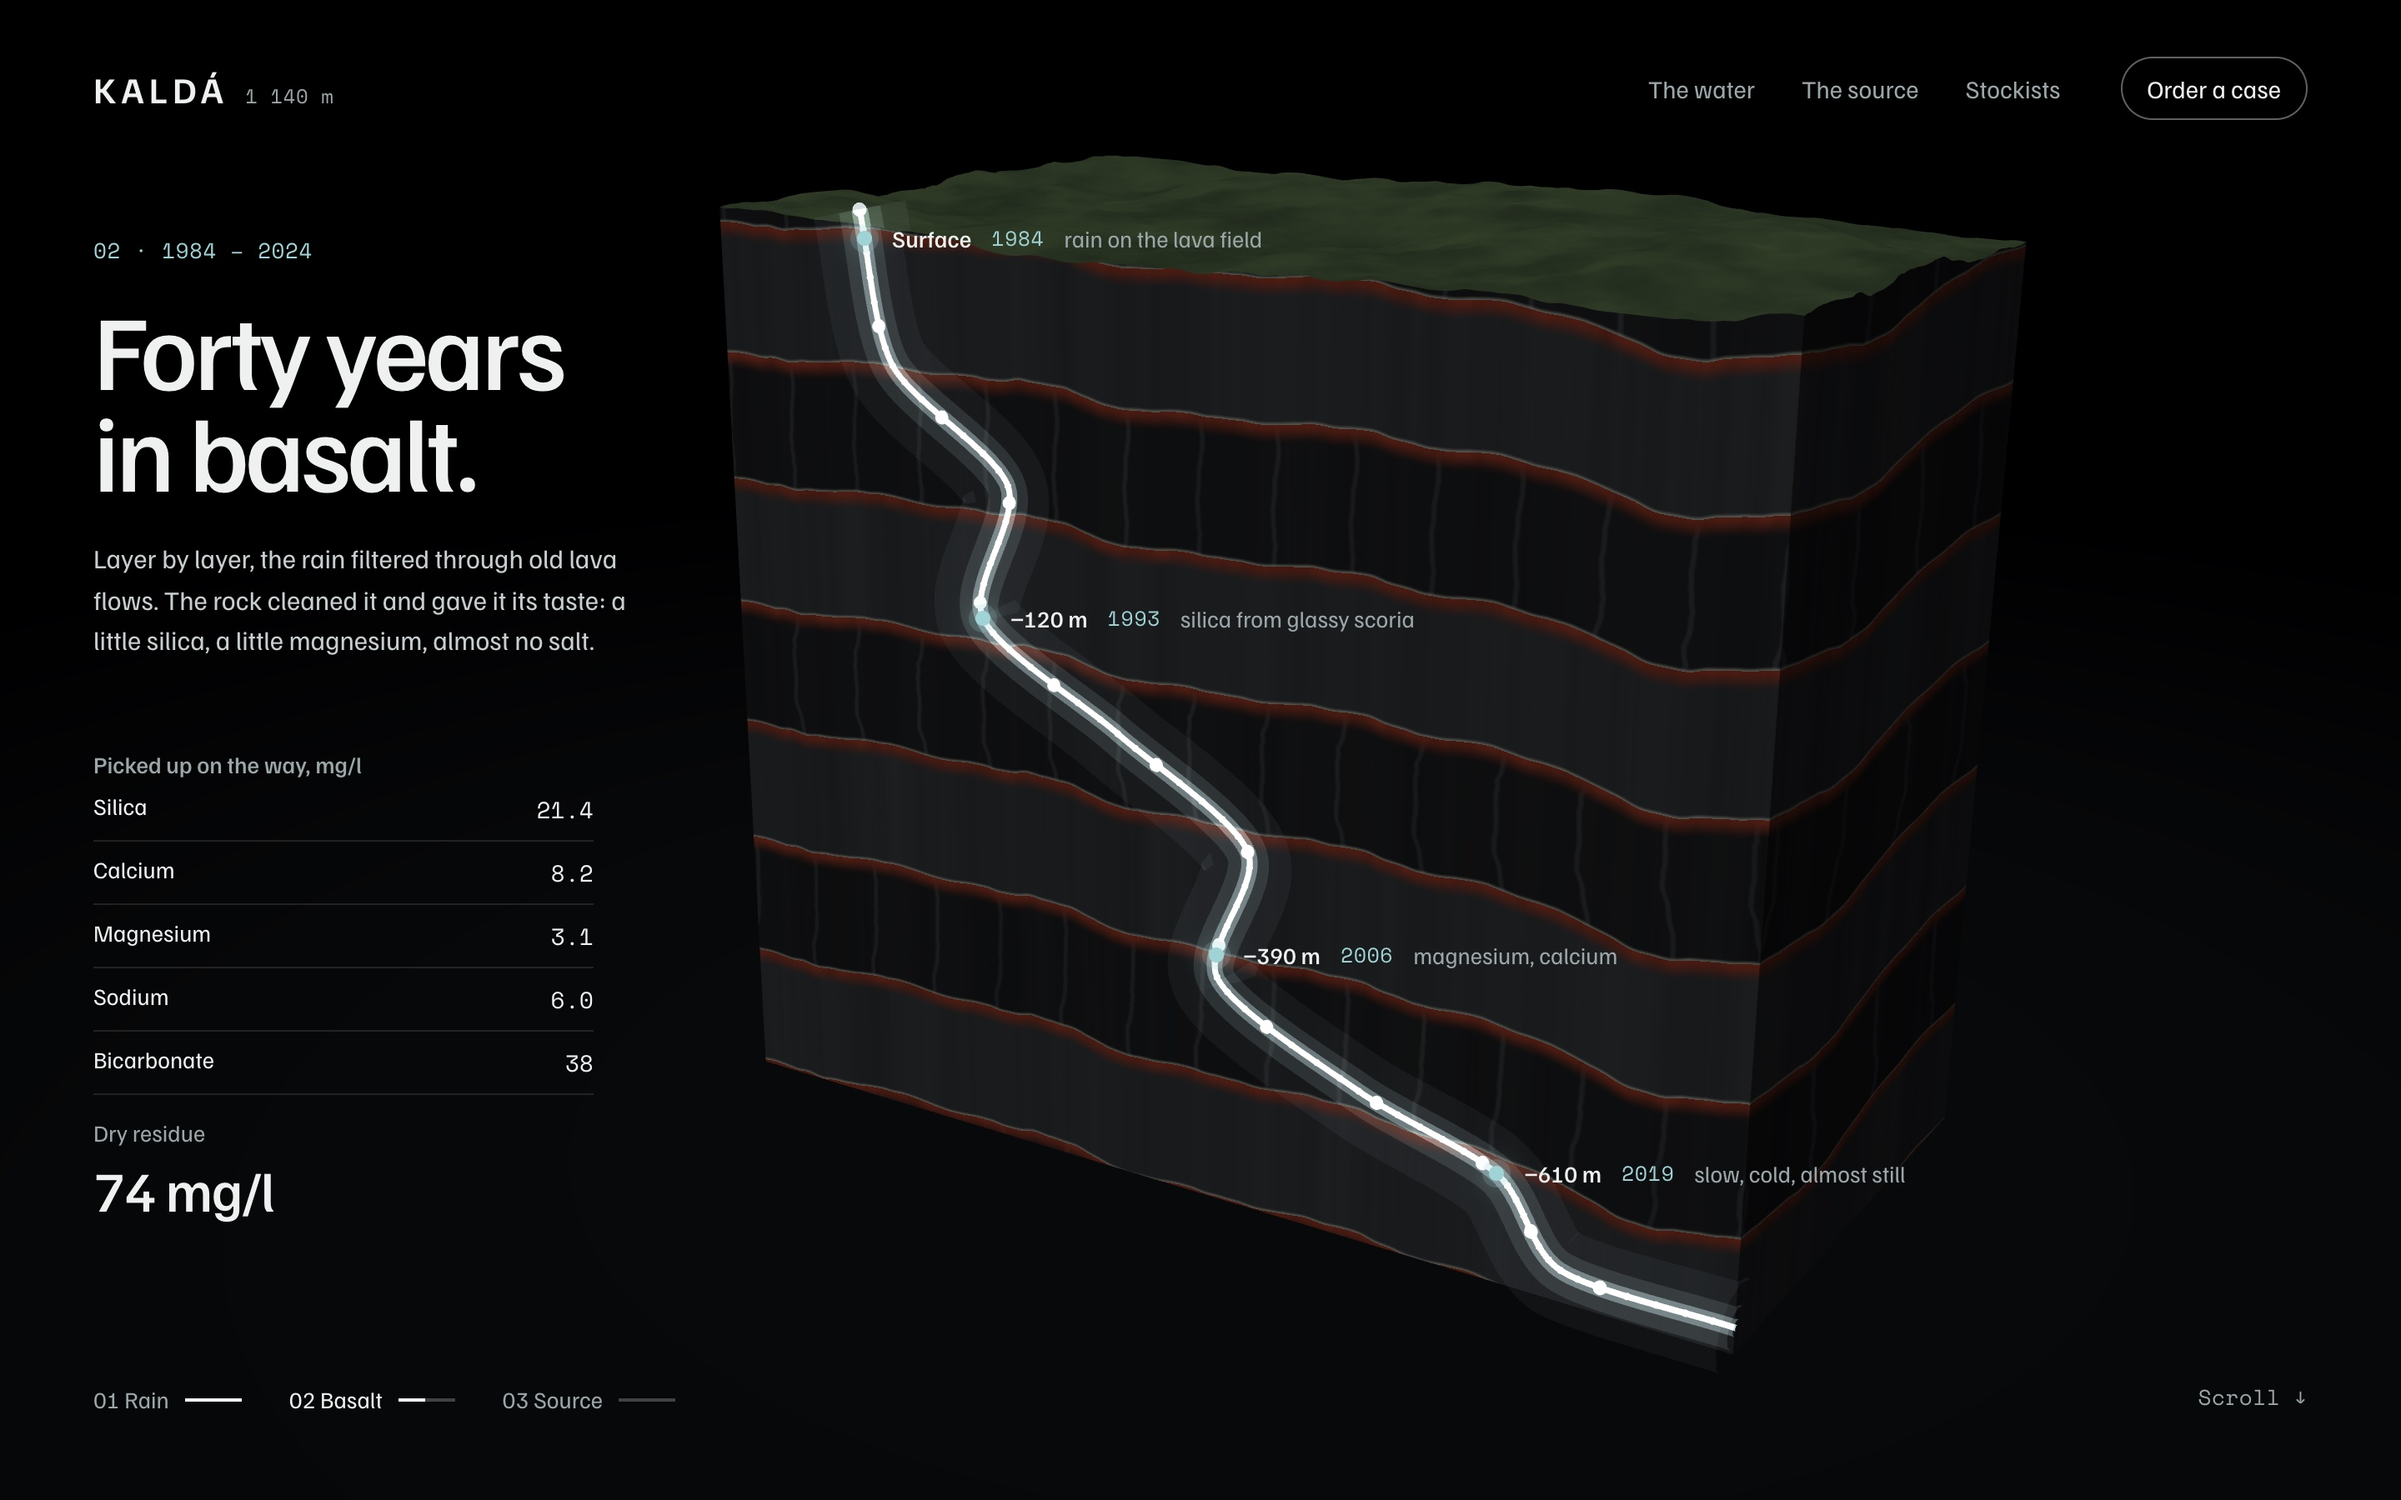
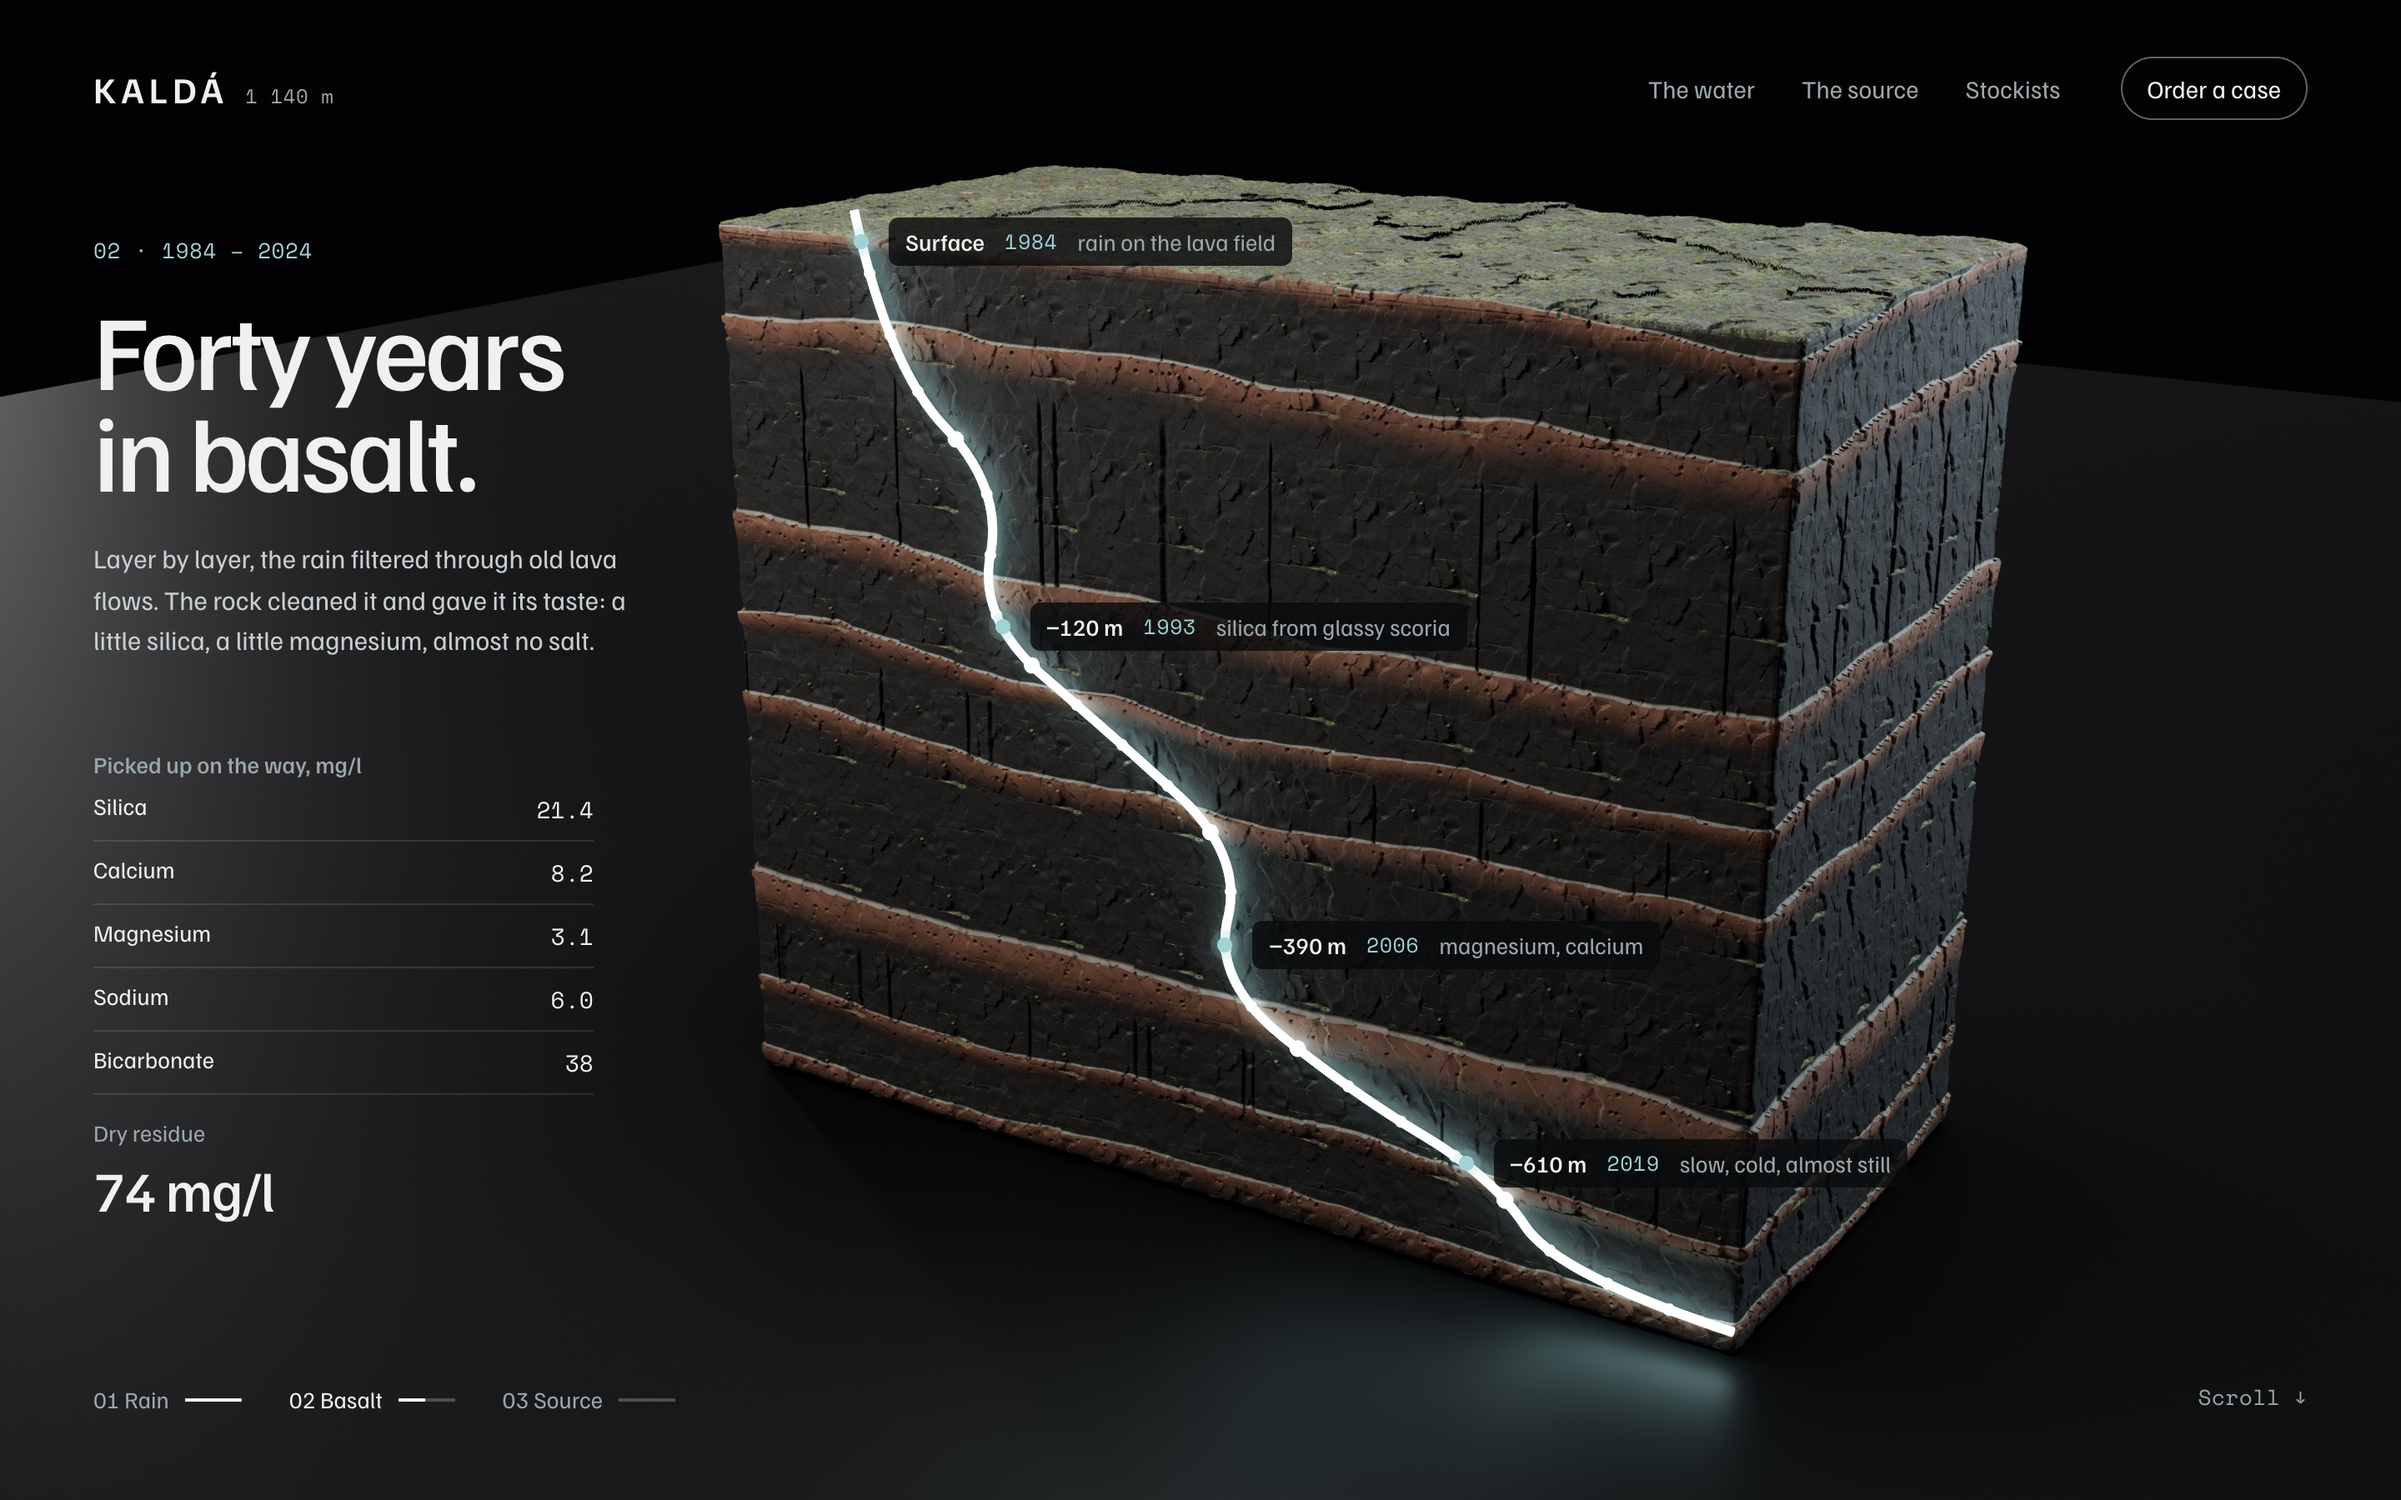
Rebuild Kaldá stills in Blender Cycles
Replace the three.js chapter images with Cycles renders: scanned rock
textures, a geometry-nodes lava field, a layered basalt section and a
remodelled bottle. Update the alt text to match.

diff --git a/components/lab-entries.ts b/components/lab-entries.ts
@@ -17,6 +17,9 @@ import parity from "@/public/images/lab/parity.jpg";
 import parityFooter from "@/public/images/lab/parity-footer.jpg";
 import turndown from "@/public/images/lab/turndown.jpg";
 import turndownFlow from "@/public/images/lab/turndown-flow.jpg";
+import nightswim from "@/public/images/lab/nightswim.jpg";
+import nightswimMap from "@/public/images/lab/nightswim-map.jpg";
+import nightswimBoard from "@/public/images/lab/nightswim-board.jpg";
 
 export type LabImage = {
   src: StaticImageData;
@@ -158,7 +161,7 @@ export const labEntries: LabEntry[] = [
     images: [
       {
         src: kaldaRain,
-        alt: "Kaldá chapter one: rain falling on a black lava field under a storm sky, with the line It fell as rain on black lava.",
+        alt: "Kaldá chapter one: rain falling on a wet black lava field flecked with moss, mountains fading into the storm, with the line It fell as rain on black lava.",
         label: "01 Rain",
       },
       {
@@ -168,8 +171,30 @@ export const labEntries: LabEntry[] = [
       },
       {
         src: kaldaSource,
-        alt: "Kaldá chapter three: a clear glass bottle of water standing on a hexagonal basalt column in caustic light, with the line It comes up at four degrees.",
+        alt: "Kaldá chapter three: a clear glass bottle beaded with condensation, standing on a hexagonal basalt column among other columns in a cold teal haze, with the line It comes up at four degrees.",
         label: "03 Source",
+      },
+    ],
+  },
+  {
+    number: "08",
+    name: "Tanabe Bros.",
+    category: "Snowboard maker, a board for night riding",
+    images: [
+      {
+        src: nightswim,
+        alt: "Tanabe Bros. product page for the Nightswim snowboard: three boards with a lime, white, cobalt and black contour topsheet and one black base, beside the price in yen, sizes and specs.",
+        label: "Product",
+      },
+      {
+        src: nightswimMap,
+        alt: "The Nightswim topsheet art shown as a trail map, with lifts, numbered lit and unlit runs, elevations and the strip the 154 board is cut from, next to the board itself.",
+        label: "Trail map",
+      },
+      {
+        src: nightswimBoard,
+        alt: "Tanabe Bros. brand board: a night snowboarder under floodlights, the logotype, the line Last chair leaves at 20:20, an app screen showing lit runs, a palette, line icons, a night lift ticket, stickers, a screen-printing workshop, a portrait outside a lodge and a volcano above lit ski runs.",
+        label: "Brand board",
       },
     ],
   },
